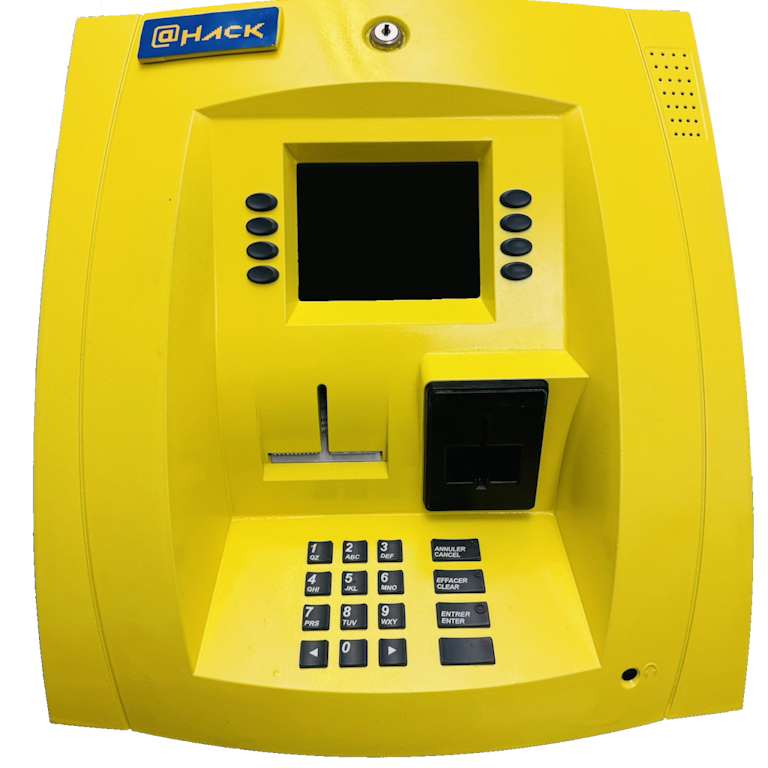
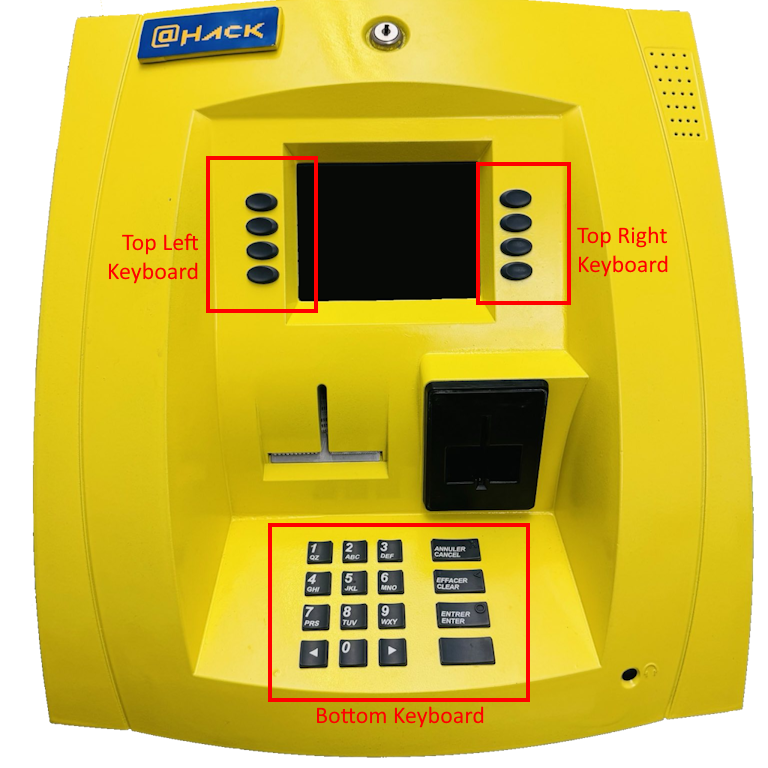
Updated keyboard mapping figure and txt.

Changed region(s): [[0.5938, 0.1875, 0.875, 0.4062], [0.3438, 0.6562, 0.6875, 0.9375], [0.125, 0.1875, 0.4375, 0.4062]]

diff --git a/README.md b/README.md
@@ -19,7 +19,21 @@ Utilities for preparing and maintaining RFID challenges for @HackCTF 2025
 
 ## Key Mapping
 
-![Alt Text](imgs/atm_keyboards.png)
+<p align="center">
+<img src="imgs/atm_keyboards.png" width="300"></a>
+</p>
+
+## Top Left Keyboard
+- `L1` ➡ `j`
+- `L2` ➡ `s`
+- `L3` ➡ `l`
+- `L4` ➡ `a`
+
+## Top Right Keyboard
+- `R1` ➡ `q`
+- `R2` ➡ `p`
+- `R3` ➡ `w`
+- `R4` ➡ `e`
 
 ### Bottom Keyboard
 - `0-9` ➡ `0-9`
@@ -29,18 +43,6 @@ Utilities for preparing and maintaining RFID challenges for @HackCTF 2025
 - `Blank` ➡ `o`
 - `<` ➡ `r`
 - `>` ➡ `y`
-
-## Top Left Keyboard
-- `x` ➡ `j`
-- `x` ➡ `s`
-- `x` ➡ `l`
-- `x` ➡ `a`
-
-## Top Right Keyboard
-- `x` ➡ `q`
-- `x` ➡ `p`
-- `x` ➡ `w`
-- `x` ➡ `e`
 
 ## Utilities
 
